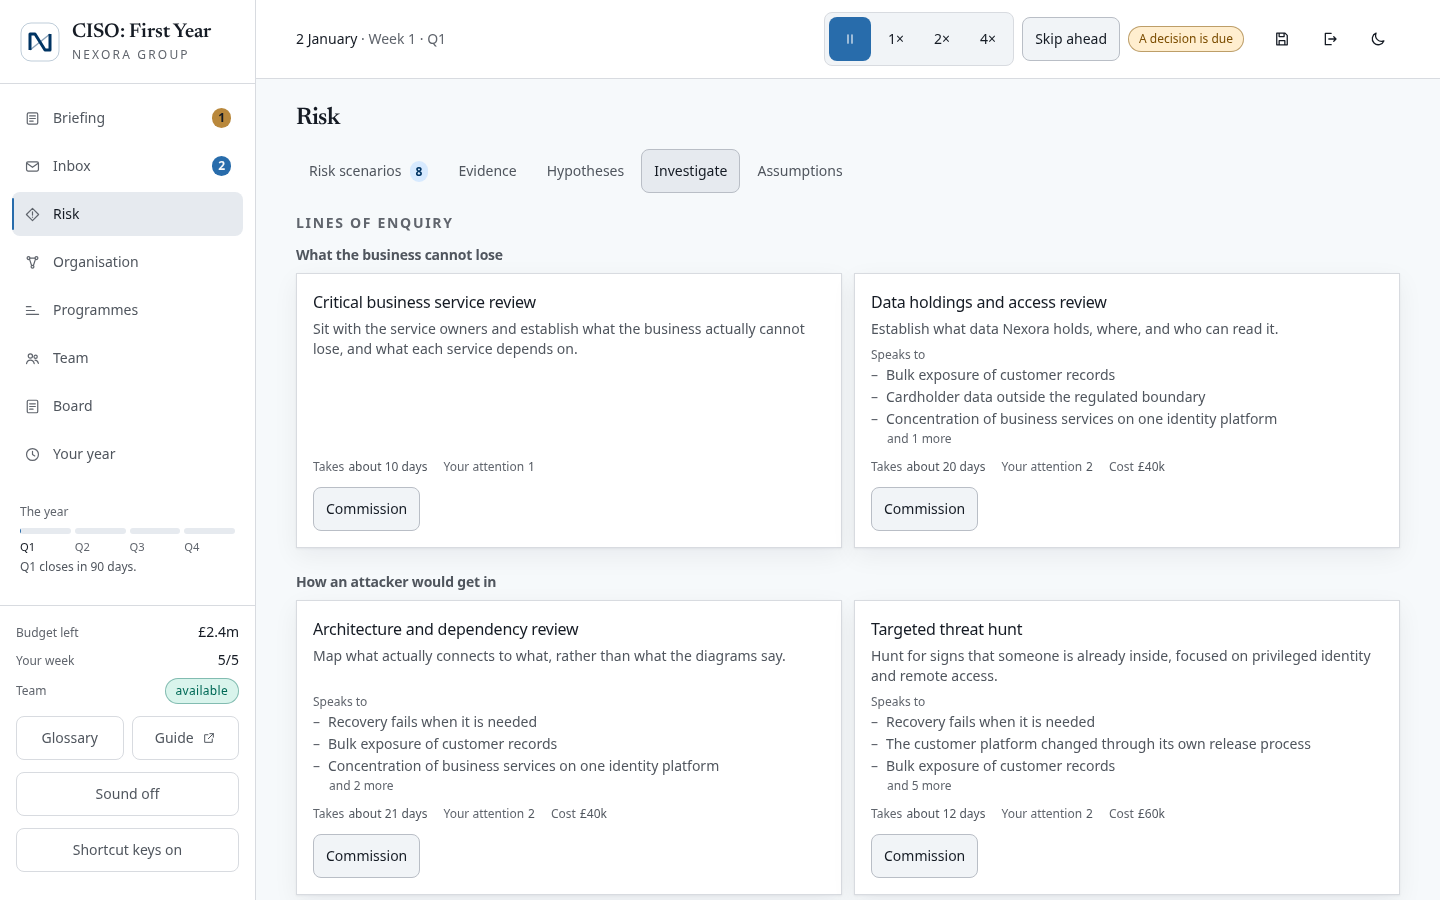
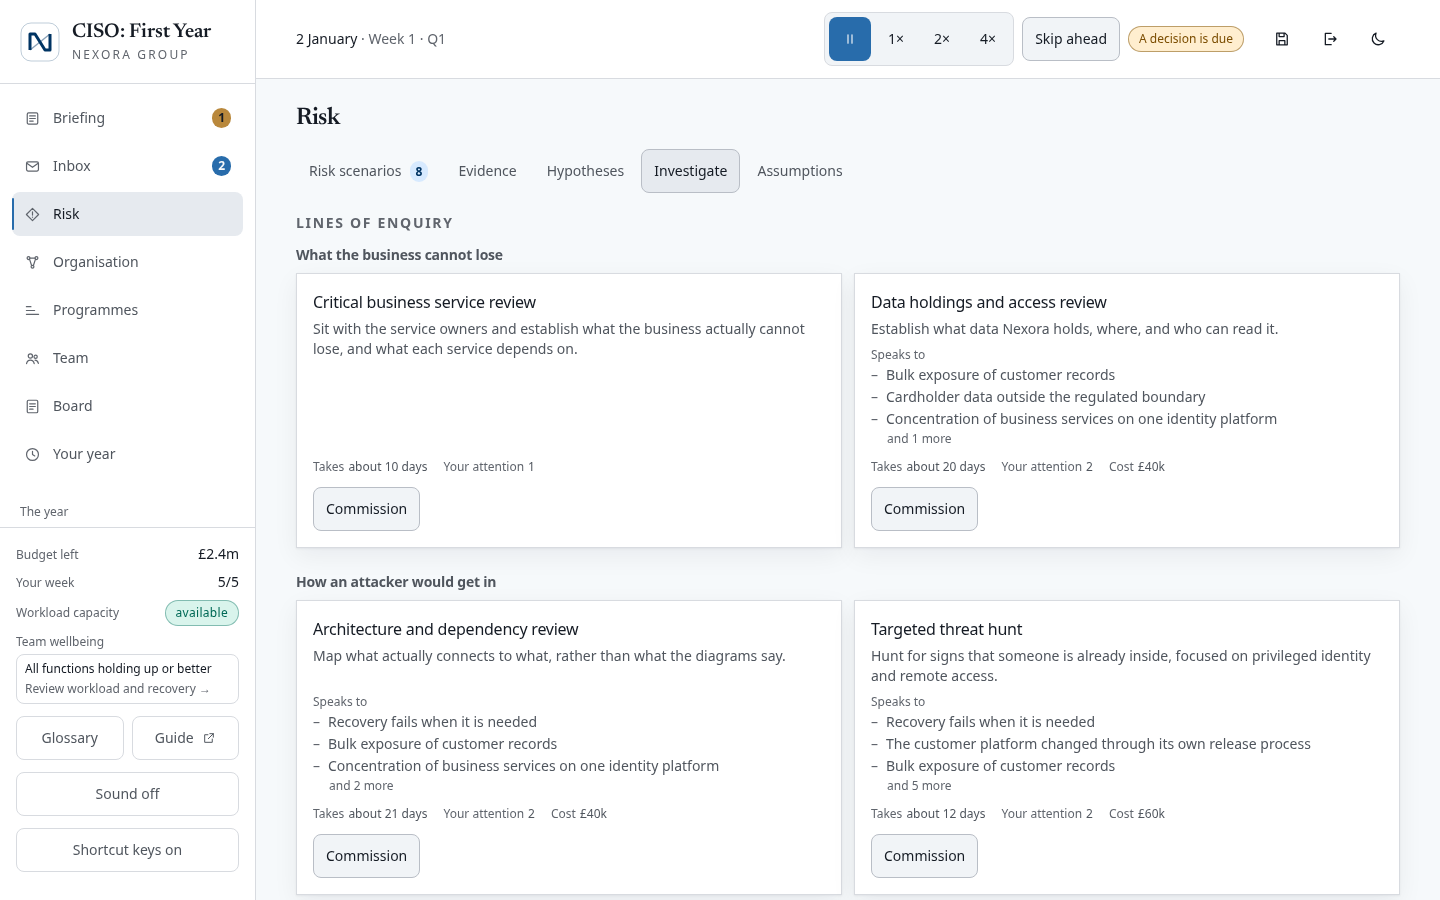
Clarify incident continuity wellbeing and board reporting

Changed region(s): [[0.0, 0.56, 0.1875, 0.8089]]

diff --git a/tests/ui/playtest-followup.test.tsx b/tests/ui/playtest-followup.test.tsx
@@ -8,10 +8,65 @@ import { useGameStore } from '@/store/game-store'
 import { createIncident } from '@/game/incidents/create'
 import { buildReconstruction } from '@/game/incidents/engine'
 import { pushMessage } from '@/game/inbox/messages'
+import { IncidentCommand } from '@/components/game/IncidentCommand'
+import { AppShell } from '@/components/layout/AppShell'
+import { BoardScreen } from '@/screens/board/BoardScreen'
 
 afterEach(cleanup)
 
 describe('the October playtest follow-up', () => {
+  it('directs an empty decision state to the active response journal', async () => {
+    await useGameStore.getState().startNewGame('ui-incident-next', 'ciso')
+    useGameStore.setState((store) => {
+      const state = structuredClone(store.state!)
+      state.decisions.openIds = []
+      createIncident(state, store.index!, { familyId: 'fam-ransomware', pathId: 'path-msp-ransom' })
+      return { state }
+    })
+    const view = render(<><IncidentCommand /><DecisionList quiet /></>)
+    const heading = view.container.querySelector<HTMLElement>('#incident-command')!
+    heading.scrollIntoView = () => {}
+    expect(screen.getByText('No response decision is open yet')).toBeVisible()
+    expect(screen.queryByText(/Nothing needs an answer/)).toBeNull()
+    fireEvent.click(screen.getByRole('button', { name: 'Review the active incident' }))
+    expect(heading).toHaveFocus()
+  })
+
+  it('names every struggling function separately from spare workload capacity', async () => {
+    await useGameStore.getState().startNewGame('ui-sidebar-health', 'ciso')
+    useGameStore.setState((store) => {
+      const state = structuredClone(store.state!)
+      state.team.functions.engineering!.morale = 0.2
+      state.team.functions.iam!.morale = 0.2
+      return { state }
+    })
+    render(<AppShell><p>Test content</p></AppShell>)
+    const summary = screen.getByTestId('team-wellbeing-summary')
+    expect(within(summary).getByText('Engineering burning out')).toBeTruthy()
+    expect(within(summary).getByText('Identity burning out')).toBeTruthy()
+    fireEvent.click(within(summary).getByRole('button'))
+    expect(useGameStore.getState().ui.screen).toBe('team')
+  })
+
+  it('explains Board eligibility without hiding programme recommendations', async () => {
+    await useGameStore.getState().startNewGame('ui-board-eligibility', 'ciso')
+    useGameStore.setState((store) => {
+      const state = structuredClone(store.state!)
+      state.currentDay = 90
+      state.reviews.pendingQuarter = 1
+      return { state }
+    })
+    render(<BoardScreen />)
+    fireEvent.click(screen.getByRole('button', { name: /Prepare the Q1 board paper/ }))
+    const dialog = screen.getByRole('dialog')
+    expect(within(dialog).getByText(/This paper reports Q1 results during Q2/)).toBeVisible()
+    expect(within(dialog).getByText('No agenda topics are eligible yet')).toBeVisible()
+    expect(within(dialog).getByText('Recommendations', { exact: true })).toBeVisible()
+    fireEvent.click(within(dialog).getByRole('button', { name: 'Review risks for the paper' }))
+    expect(useGameStore.getState().ui.screen).toBe('risk')
+    expect(screen.queryByRole('dialog')).toBeNull()
+  })
+
   it('offers the review rather than advancing a finished year', async () => {
     await useGameStore.getState().startNewGame('ui-ended-year', 'ciso')
     useGameStore.setState((store) => {

diff --git a/src/components/layout/AppShell.tsx b/src/components/layout/AppShell.tsx
@@ -8,7 +8,7 @@
 import { useEffect, useRef, useState, type ReactNode } from 'react'
 import { DESTINATIONS, GUIDE_URL, destinationFor } from '@/app/navigation'
 import { type Screen, useCampaignIndex, useGameStore } from '@/store/game-store'
-import { briefing } from '@/store/selectors'
+import { briefing, teamWellbeingNotes } from '@/store/selectors'
 import { TimeControls } from '@/components/game/TimeControls'
 import { Badge, Button, Dialog, buttonClass } from '@/components/ui/primitives'
 import { cn } from '@/lib/utils/cn'
@@ -48,6 +48,7 @@ export function AppShell({ children }: { children: ReactNode }) {
 
   if (!state) return null
   const view = briefing(state, index)
+  const wellbeing = teamWellbeingNotes(state)
   const primary = DESTINATIONS.filter((destination) => destination.primary)
   const secondary = DESTINATIONS.filter((destination) => !destination.primary)
   const current = destinationFor(screen)
@@ -145,8 +146,17 @@ export function AppShell({ children }: { children: ReactNode }) {
               </dd>
             </div>
             <div className="flex items-baseline justify-between gap-2">
-              <dt className="text-xs text-ink-faint">Team</dt>
+              <dt className="text-xs text-ink-faint">Workload capacity</dt>
               <dd><Badge tone={capacityTone(view.teamCapacity)} glyph={false}>{view.teamCapacity}</Badge></dd>
+            </div>
+            <div className="space-y-1" data-testid="team-wellbeing-summary">
+              <dt className="text-xs text-ink-faint">Team wellbeing</dt>
+              <dd>
+                <button type="button" onClick={() => go('team')} className="min-h-11 w-full rounded-lg border border-line px-2 py-1.5 text-left text-xs hover:bg-surface-2">
+                  {wellbeing.length > 0 ? wellbeing.map((note) => <span key={note} className="block">{note}</span>) : 'All functions holding up or better'}
+                  <span className="mt-1 block text-ink-faint">Review workload and recovery →</span>
+                </button>
+              </dd>
             </div>
           </dl>
           {/* A pair, drawn alike: the guide was bare text under a boxed button. */}
@@ -228,6 +238,12 @@ export function AppShell({ children }: { children: ReactNode }) {
       </nav>
 
       <Dialog open={moreOpen} onClose={() => setMoreOpen(false)} title="More">
+        <div className="mb-4 rounded-lg border border-line p-3 text-sm">
+          <p>Workload capacity: {view.teamCapacity}</p>
+          <p className="mt-2 font-medium">Team wellbeing</p>
+          {wellbeing.length > 0 ? wellbeing.map((note) => <p key={note} className="text-ink-muted">{note}</p>) : <p className="text-ink-muted">All functions holding up or better</p>}
+          <Button variant="quiet" size="sm" className="mt-2" onClick={() => go('team')}>Review workload and recovery</Button>
+        </div>
         <ul className="space-y-2">
           {secondary.map((destination) => (
             <li key={destination.id}>

diff --git a/tests/e2e/inbox.spec.ts b/tests/e2e/inbox.spec.ts
@@ -4,6 +4,34 @@ import { expectNoHorizontalScroll, goTo } from './helpers'
 import { openPreparedCampaign, prepareCampaign } from './prepared'
 
 for (const theme of ['light', 'dark']) {
+  test(`reported second seed keeps a selected threat stable in Unread, ${theme}`, async ({ page }) => {
+    await page.addInitScript((value) => localStorage.setItem('ciso-theme', value), theme)
+    // Same seed, engine-played choices: the review did not supply its save.
+    const save = prepareCampaign('kestrel-32734', 'year-end') as { state: GameState }
+    // The preparation driver clears mail daily. Stage an unread backlog of
+    // its real retained messages, rather than assuming those flags match play.
+    for (const message of save.state.inbox.messages) message.read = false
+    await openPreparedCampaign(page, save)
+    // A prepared save has reached the last day; its annual review still loads
+    // asynchronously. Wait for that automatic navigation before opening mail.
+    await expect(page.getByText('How the year is read', { exact: true })).toBeVisible()
+    await goTo(page, 'Inbox')
+    const list = page.getByRole('list', { name: 'Messages' })
+    await page.getByRole('button', { name: 'Threat', exact: true }).click()
+    await list.getByRole('button').last().click()
+    for (const previous of ['Threat', 'All']) {
+      await page.getByRole('button', { name: previous, exact: true }).click()
+      await page.getByRole('button', { name: 'Unread', exact: true }).click()
+      await expect(list).toBeVisible()
+      const count = await list.getByRole('button').count()
+      expect(count).toBeGreaterThan(1)
+      await list.getByRole('button').nth(1).click()
+      await expect(list.getByRole('button')).toHaveCount(count)
+      await expect(page.getByText('This screen could not be shown', { exact: true })).toHaveCount(0)
+    }
+    await expectNoHorizontalScroll(page)
+  })
+
   for (const empty of [false, true]) {
     test(`year-end Unread preserves the backlog, ${theme}, empty=${empty}`, async ({ page }) => {
       await page.addInitScript((value) => localStorage.setItem('ciso-theme', value), theme)
@@ -14,6 +42,7 @@ for (const theme of ['light', 'dark']) {
         pinned: false, relatedNodeIds: [],
       }))
       await openPreparedCampaign(page, save)
+      await expect(page.getByText('How the year is read', { exact: true })).toBeVisible()
       await goTo(page, 'Inbox')
       const list = page.getByRole('list', { name: 'Messages' })
       for (const previous of ['All', 'Threat']) {

diff --git a/src/screens/board/BoardScreen.tsx b/src/screens/board/BoardScreen.tsx
@@ -80,7 +80,7 @@ export function BoardScreen() {
               <div className="flex items-center gap-3"><NexoraMark /><p className="document-kicker">Board Risk Committee</p></div>
               <span className="font-display text-3xl text-ink-muted">Q{pendingQuarter}</span>
             </div>
-            <p className="font-medium">The risk committee meets this quarter.</p>
+            <p className="font-medium">Q{pendingQuarter} results, presented during Q{Math.min(4, pendingQuarter + 1)}.</p>
             <p className="mt-1 text-sm text-ink-muted text-pretty">
               Choose what goes in front of them. Leaving out something material does more damage than bringing bad news.
             </p>
@@ -208,10 +208,12 @@ export function BoardScreen() {
             <div><p className="document-kicker">Nexora Group</p><p className="mt-2 font-display text-2xl">Board Risk Committee</p><p className="mt-1 text-sm text-ink-muted">Management paper · {formatGameDate(state.currentDay).label}</p></div>
             <span aria-hidden="true" className="font-display text-5xl text-ink-faint">Q{pendingQuarter}</span>
           </header>
+          <p className="text-sm text-ink-muted">This paper reports Q{pendingQuarter} results during Q{Math.min(4, (pendingQuarter ?? 0) + 1)}. The date above is when you prepare it; the submission deadline is shown on the committee card.</p>
           {availableTopics.length === 0 ? (
             <EmptyState
-              title="You have nothing to report"
-              description="You have not assessed a risk, run an incident or had an assumption fail. That is itself something the board may ask about."
+              title="No agenda topics are eligible yet"
+              description="The agenda draws on raised risks, incidents, failed assumptions, off-track programmes and a team beyond its workload limit. Completed checks and low morale alone do not add an agenda item. Programme recommendations remain available below. Open Risk to assess or raise a risk for the paper."
+              action={<Button variant="secondary" size="sm" onClick={() => { setPreparing(false); useGameStore.getState().setScreen('risk') }}>Review risks for the paper</Button>}
             />
           ) : (
             <fieldset>

diff --git a/src/components/decisions/DecisionList.tsx b/src/components/decisions/DecisionList.tsx
@@ -1,6 +1,6 @@
 import { Badge, Button, Card, CardBody, EmptyState } from '@/components/ui/primitives'
 import { useCampaignIndex, useGameStore } from '@/store/game-store'
-import { openDecisions } from '@/store/selectors'
+import { incidentCommand, openDecisions } from '@/store/selectors'
 
 export function DecisionList({
   limit,
@@ -22,20 +22,27 @@ export function DecisionList({
 
   if (shown.length === 0) {
     // Beside a board paper that is due, "nothing needs an answer" is untrue.
-    if (quiet) return null
+    const activeIncident = !state.finished && incidentCommand(state, index)
+    if (quiet && !activeIncident) return null
     return (
       <EmptyState
-        title="No decision is open"
+        title={activeIncident ? 'No response decision is open yet' : 'No decision is open'}
         description={
           // "Nothing needs an answer" sat under "5 things need your
           // attention", counting patterns and collisions further down.
           state.finished
             ? 'The year is over. Revisit your messages or read the annual review in Your year.'
+            : activeIncident
+              ? 'An incident is active. Review the response journal and latest update while the response continues.'
             : elsewhere
             ? 'Nothing needs an answer today. What else wants you is further down this page.'
             : 'Nothing needs an answer from you right now. Advance time, or go and find out something you do not yet know.'
         }
-        action={state.finished ? <Button variant="secondary" size="sm" onClick={() => useGameStore.getState().setScreen('debrief')}>Open Your year</Button> : undefined}
+        action={state.finished ? <Button variant="secondary" size="sm" onClick={() => useGameStore.getState().setScreen('debrief')}>Open Your year</Button> : activeIncident ? <Button variant="secondary" size="sm" onClick={() => {
+          const journal = document.getElementById('incident-command')
+          journal?.focus({ preventScroll: true })
+          journal?.scrollIntoView({ block: 'start' })
+        }}>Review the active incident</Button> : undefined}
       />
     )
   }

diff --git a/tests/e2e/review-guidance.spec.ts b/tests/e2e/review-guidance.spec.ts
@@ -1,0 +1,39 @@
+import { expect, test } from '@playwright/test'
+import type { GameState } from '../../src/game/types'
+import { goTo, expectNoHorizontalScroll } from './helpers'
+import { openPreparedCampaign, prepareCampaign } from './prepared'
+
+test('an empty response decision list returns keyboard focus to the journal', async ({ page }) => {
+  const save = prepareCampaign('visual-incident', 'incident') as { state: GameState }
+  save.state.decisions.openIds = []
+  await openPreparedCampaign(page, save)
+  await goTo(page, 'Briefing')
+  await page.getByRole('button', { name: 'Review the active incident', exact: true }).click()
+  await expect(page.locator('#incident-command')).toBeFocused()
+  await expect(page.locator('#incident-command')).toBeInViewport()
+  await expectNoHorizontalScroll(page)
+})
+
+test('workload capacity and struggling functions have separate routes in the shell', async ({ page }) => {
+  const save = prepareCampaign('guidance-team', 'board') as { state: GameState }
+  save.state.team.functions.engineering!.morale = 0.2
+  save.state.team.functions.iam!.morale = 0.2
+  await openPreparedCampaign(page, save)
+  const nav = page.getByRole('navigation', { name: 'Primary' })
+  const wellbeing = page.getByTestId('team-wellbeing-summary')
+  if (await wellbeing.isVisible()) {
+    await expect(wellbeing).toContainText('Engineering burning out')
+    await expect(wellbeing).toContainText('Identity burning out')
+    await wellbeing.getByRole('button').click()
+  } else {
+    await nav.getByRole('button', { name: 'More', exact: true }).click()
+    const dialog = page.getByRole('dialog')
+    await expect(dialog).toContainText('Workload capacity:')
+    await expect(dialog).toContainText('Engineering burning out')
+    await expect(dialog).toContainText('Identity burning out')
+    await dialog.getByRole('button', { name: 'Review workload and recovery', exact: true }).click()
+    await expect(dialog).toBeHidden()
+  }
+  await expect(page.getByRole('heading', { name: 'Team', exact: true })).toBeVisible()
+  await expectNoHorizontalScroll(page)
+})

diff --git a/src/components/game/IncidentHistory.tsx b/src/components/game/IncidentHistory.tsx
@@ -33,6 +33,18 @@ export function IncidentHistory() {
                       {incident.servicesAffected.length > 0 && ` · ${incident.servicesAffected.join(', ')}`}
                     </p>
 
+                    <details className="rounded-lg border border-line p-3">
+                      <summary className="cursor-pointer text-sm font-medium">Response journal and recorded choices</summary>
+                      <div className="mt-3 space-y-3 text-sm">
+                        {incident.updates.length > 0 ? <ol className="response-timeline">{incident.updates.map((message) => <li key={message.id}>
+                          <p className="text-ink-muted">{shortDate(message.day)} · {message.body}</p>
+                          <Button variant="quiet" size="sm" onClick={() => openMessage(message.id)}>Open phase update: {message.subject}</Button>
+                        </li>)}</ol> : <p className="text-ink-muted">No linked phase updates remain in this save.</p>}
+                        {incident.responseChoices.length > 0 ? <ul className="space-y-2">{incident.responseChoices.map((choice, position) => <li key={position}>{shortDate(choice.day)} · {choice.title}: <strong>{choice.option}</strong></li>)}</ul> : <p className="text-ink-muted">No response choices were recorded.</p>}
+                        <p className="text-xs text-ink-faint">These are the recorded updates and choices. They do not measure what an alternative decision would have changed.</p>
+                      </div>
+                    </details>
+
                     {incident.reconstruction && (
                       <>
                         {/* What happened in a line; the route and what helped

diff --git a/src/store/selectors.ts b/src/store/selectors.ts
@@ -615,6 +615,12 @@ export function teamHealthClause(state: GameState): string | undefined {
   return worst && `${functionName(worst.fn)} is ${moraleLabel(worst.morale).toLowerCase()}`
 }
 
+/** Compact summaries name every struggling function, not just the worst one. */
+export function teamWellbeingNotes(state: GameState): string[] {
+  return CYBER_FUNCTIONS.filter((fn) => (state.team.functions[fn]?.morale ?? 1) < 0.45)
+    .map((fn) => `${functionTitle(fn)} ${moraleLabel(state.team.functions[fn]!.morale).toLowerCase()}`)
+}
+
 /**
  * Recovery confidence in words, from the backup control as the player last
  * verified it. The cuts were 0.30 / 0.55 / 0.78, and the product the reading
@@ -776,6 +782,13 @@ export function incidentViews(state: GameState, index: ContentIndex) {
           .map((serviceId) => index.service.get(serviceId)?.name)
           .filter((name): name is string => Boolean(name)),
         reconstruction: incident.reconstruction,
+        updates: state.inbox.messages.filter((message) => message.incidentId === incident.id).toSorted((a, b) => a.day - b.day),
+        responseChoices: incident.decisionsTaken.flatMap((entry) => {
+          const runtime = state.decisions.decisions[entry.decisionId]
+          const def = runtime ? index.decision.get(runtime.defId) : undefined
+          const option = def?.options.find((candidate) => candidate.id === entry.optionId)
+          return def && option ? [{ day: entry.day, title: def.title, option: option.label }] : []
+        }),
         severity: consequenceBand(incident.consequence),
       }
     })

diff --git a/tests/e2e/art.spec.ts b/tests/e2e/art.spec.ts
@@ -1,5 +1,5 @@
 import { expect, test } from '@playwright/test'
-import { expectNoHorizontalScroll, goTo, startCampaign } from './helpers'
+import { beginCampaign, expectNoHorizontalScroll, goTo } from './helpers'
 import { openPreparedCampaign, prepareCampaign } from './prepared'
 
 test('portraits load with people rather than with the start screen', async ({ page }) => {
@@ -19,7 +19,7 @@ test('portraits load with people rather than with the start screen', async ({ pa
   expect(fonts.length).toBeGreaterThan(0)
   for (const font of fonts) expect(new URL(font).origin).toBe(new URL(page.url()).origin)
 
-  await startCampaign(page, 'e2e-art')
+  await beginCampaign(page, 'e2e-art')
   await goTo(page, 'Board')
   const executive = page.getByRole('heading', { name: 'Marianne Okafor', exact: true }).locator('..').locator('..')
   const portrait = executive.locator('img')

diff --git a/src/screens/home/HomeScreen.tsx b/src/screens/home/HomeScreen.tsx
@@ -165,6 +165,12 @@ export function HomeScreen() {
               quiet={state.reviews.pendingQuarter !== undefined || blocked.length > 0}
               elsewhere={pressing.length + patterns.length > 0}
             />
+            {!state.finished && Object.values(state.incidents.incidents).some((incident) => incident.reconstruction) && (
+              <div className="mt-3 flex flex-wrap items-center justify-between gap-3 border-y border-line py-3 text-sm">
+                <p>An incident debrief is available, including its recorded response choices.</p>
+                <Button variant="secondary" size="sm" onClick={() => setScreen('debrief')}>Review incident recap</Button>
+              </div>
+            )}
           </section>
 
           {/* What the player's own actions sent back. The first observed

diff --git a/tests/e2e/helpers.ts b/tests/e2e/helpers.ts
@@ -2,6 +2,11 @@ import { expect, type Page } from '@playwright/test'
 
 export async function startCampaign(page: Page, seed = 'e2e-seed'): Promise<void> {
   await page.goto('/')
+  await beginCampaign(page, seed)
+}
+
+/** Begin on an already-open start screen without interrupting its preload. */
+export async function beginCampaign(page: Page, seed = 'e2e-seed'): Promise<void> {
   await expect(page.getByRole('heading', { name: 'CISO: First Year' })).toBeVisible()
   // The seed is a replay tool, folded away so a first-time player is not asked
   // about the machinery before they have started. A player who wants a

diff --git a/src/components/game/IncidentCommand.tsx b/src/components/game/IncidentCommand.tsx
@@ -60,7 +60,7 @@ export function IncidentCommand() {
         <div className="flex flex-wrap items-start justify-between gap-3">
           <div className="min-w-0 flex-1">
             <p className="document-kicker mb-2">Response journal</p>
-            <h2 id="incident-command" className="font-display text-xl leading-tight text-balance">
+            <h2 id="incident-command" tabIndex={-1} className="scroll-mt-36 font-display text-xl leading-tight text-balance">
               {incident.name}
             </h2>
             <p className="mt-1 text-sm text-ink-muted text-pretty">
